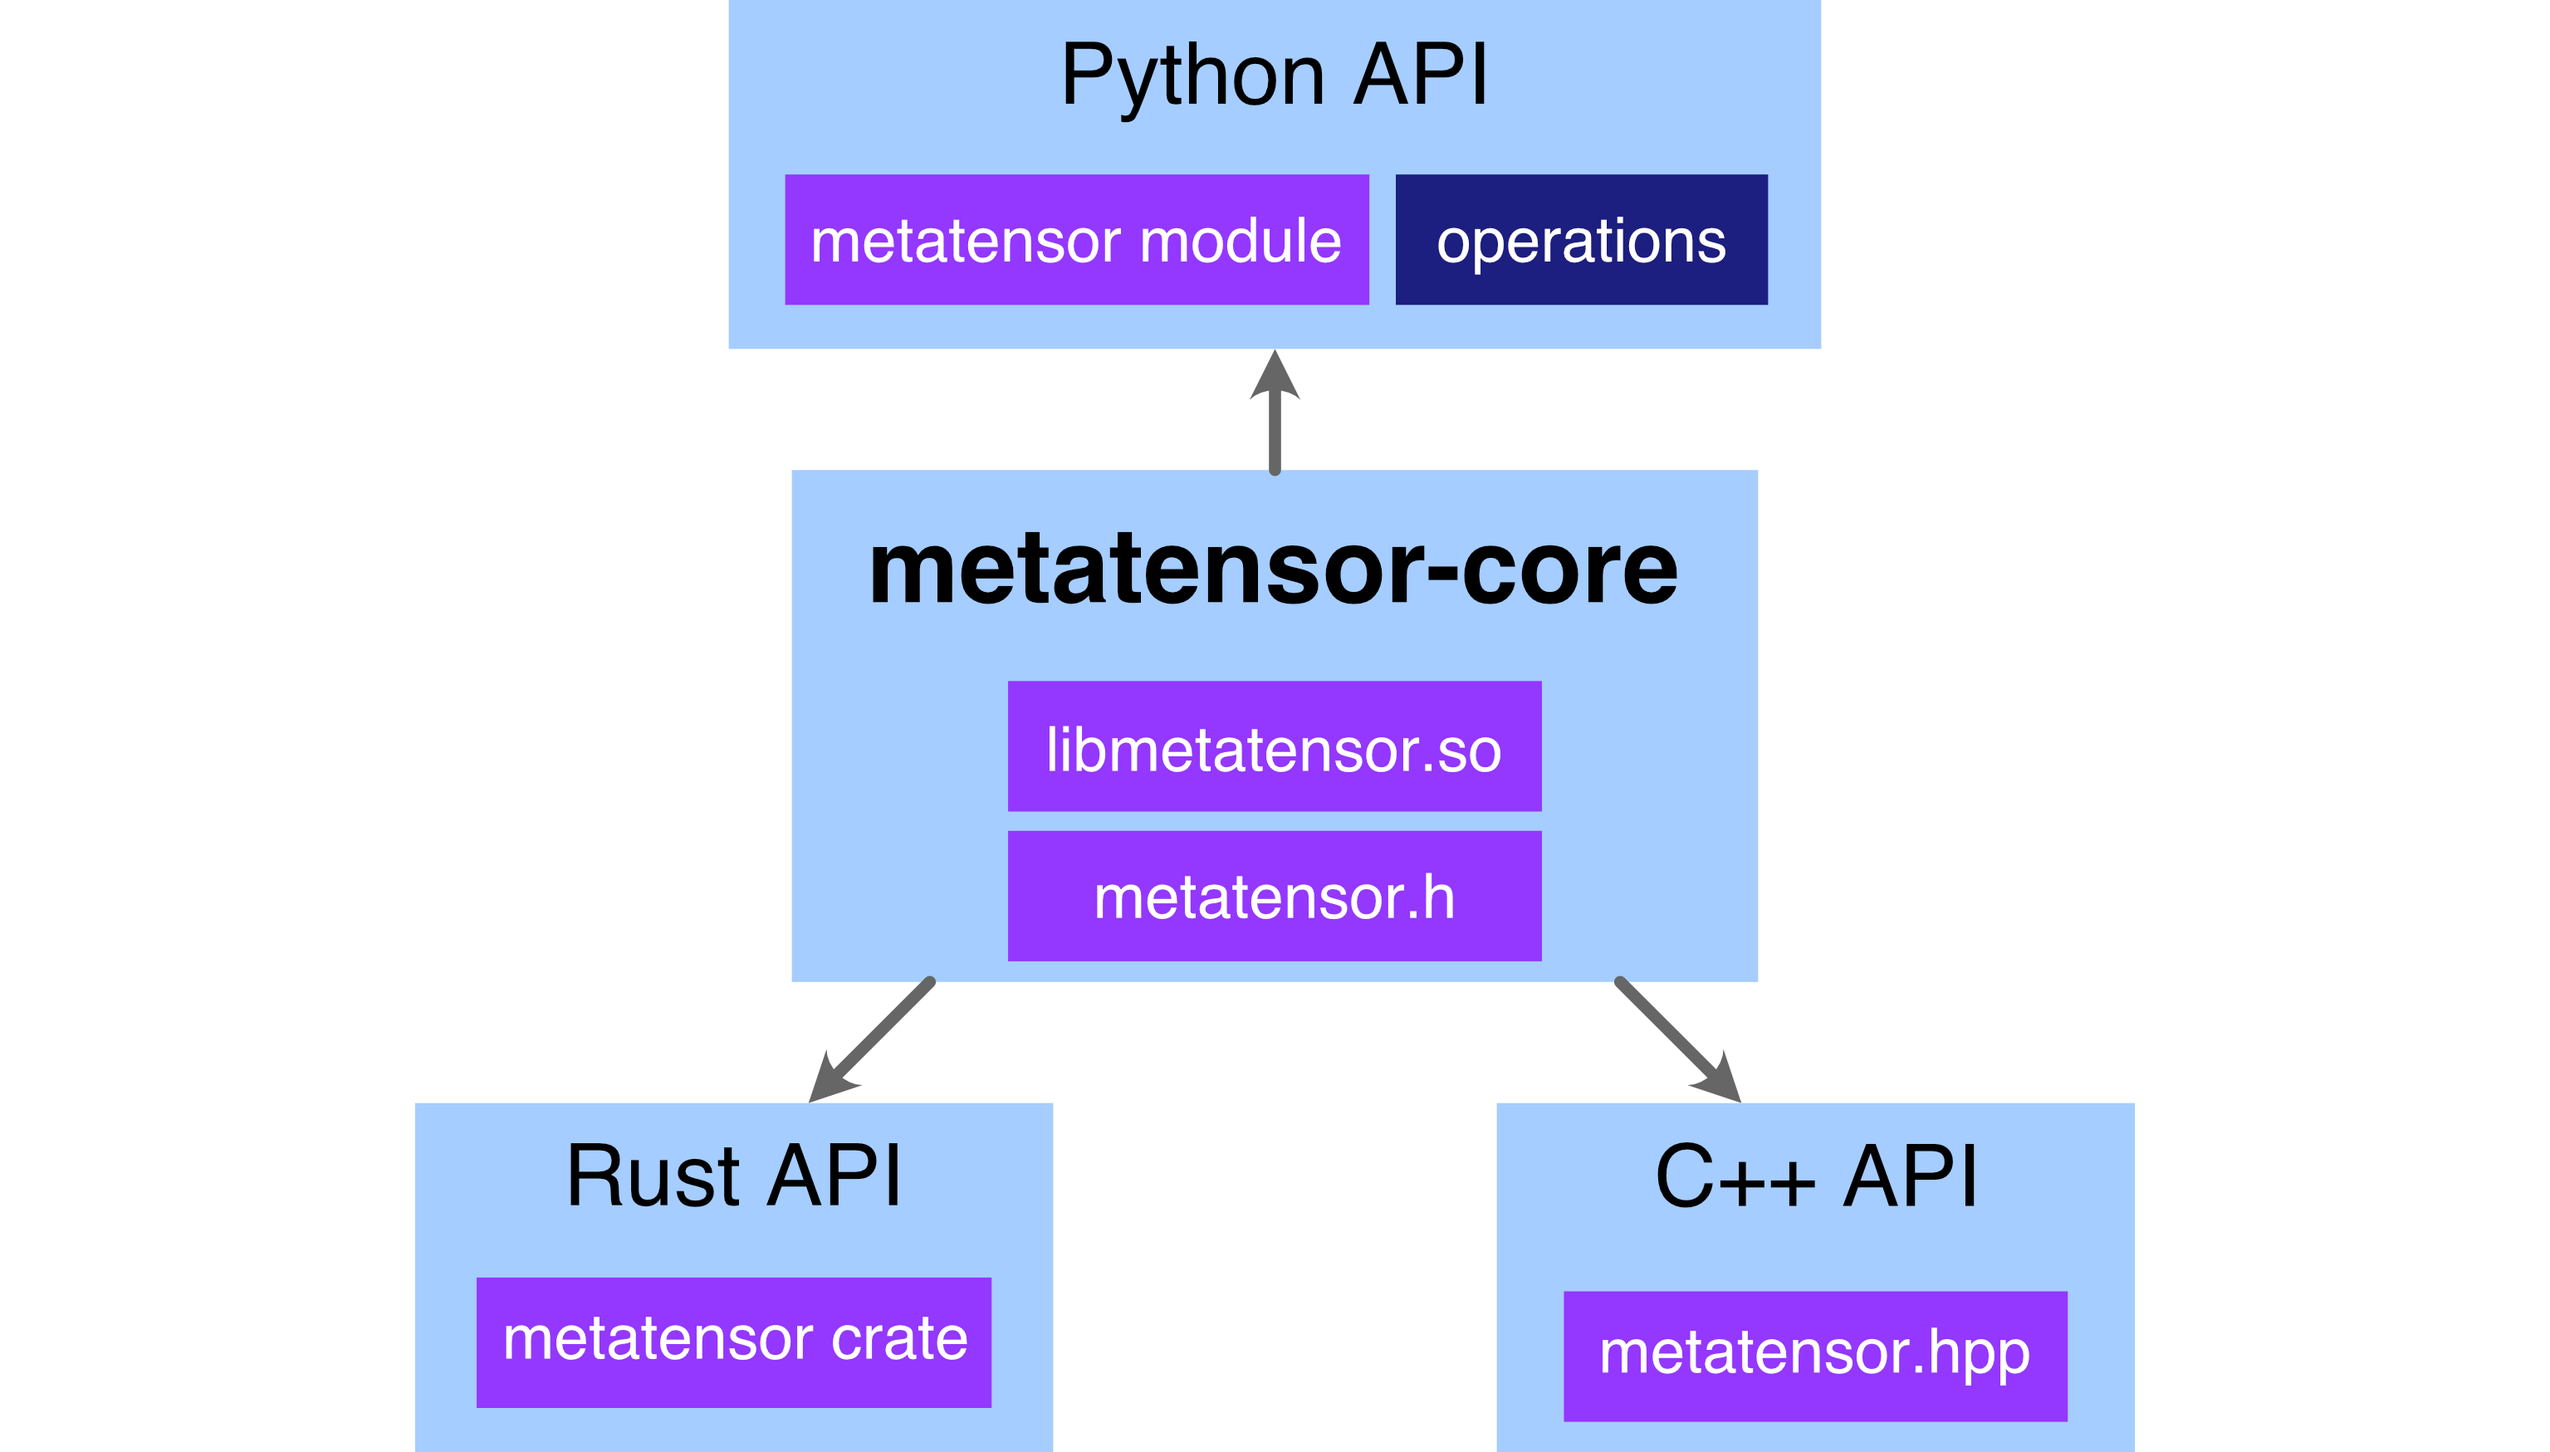
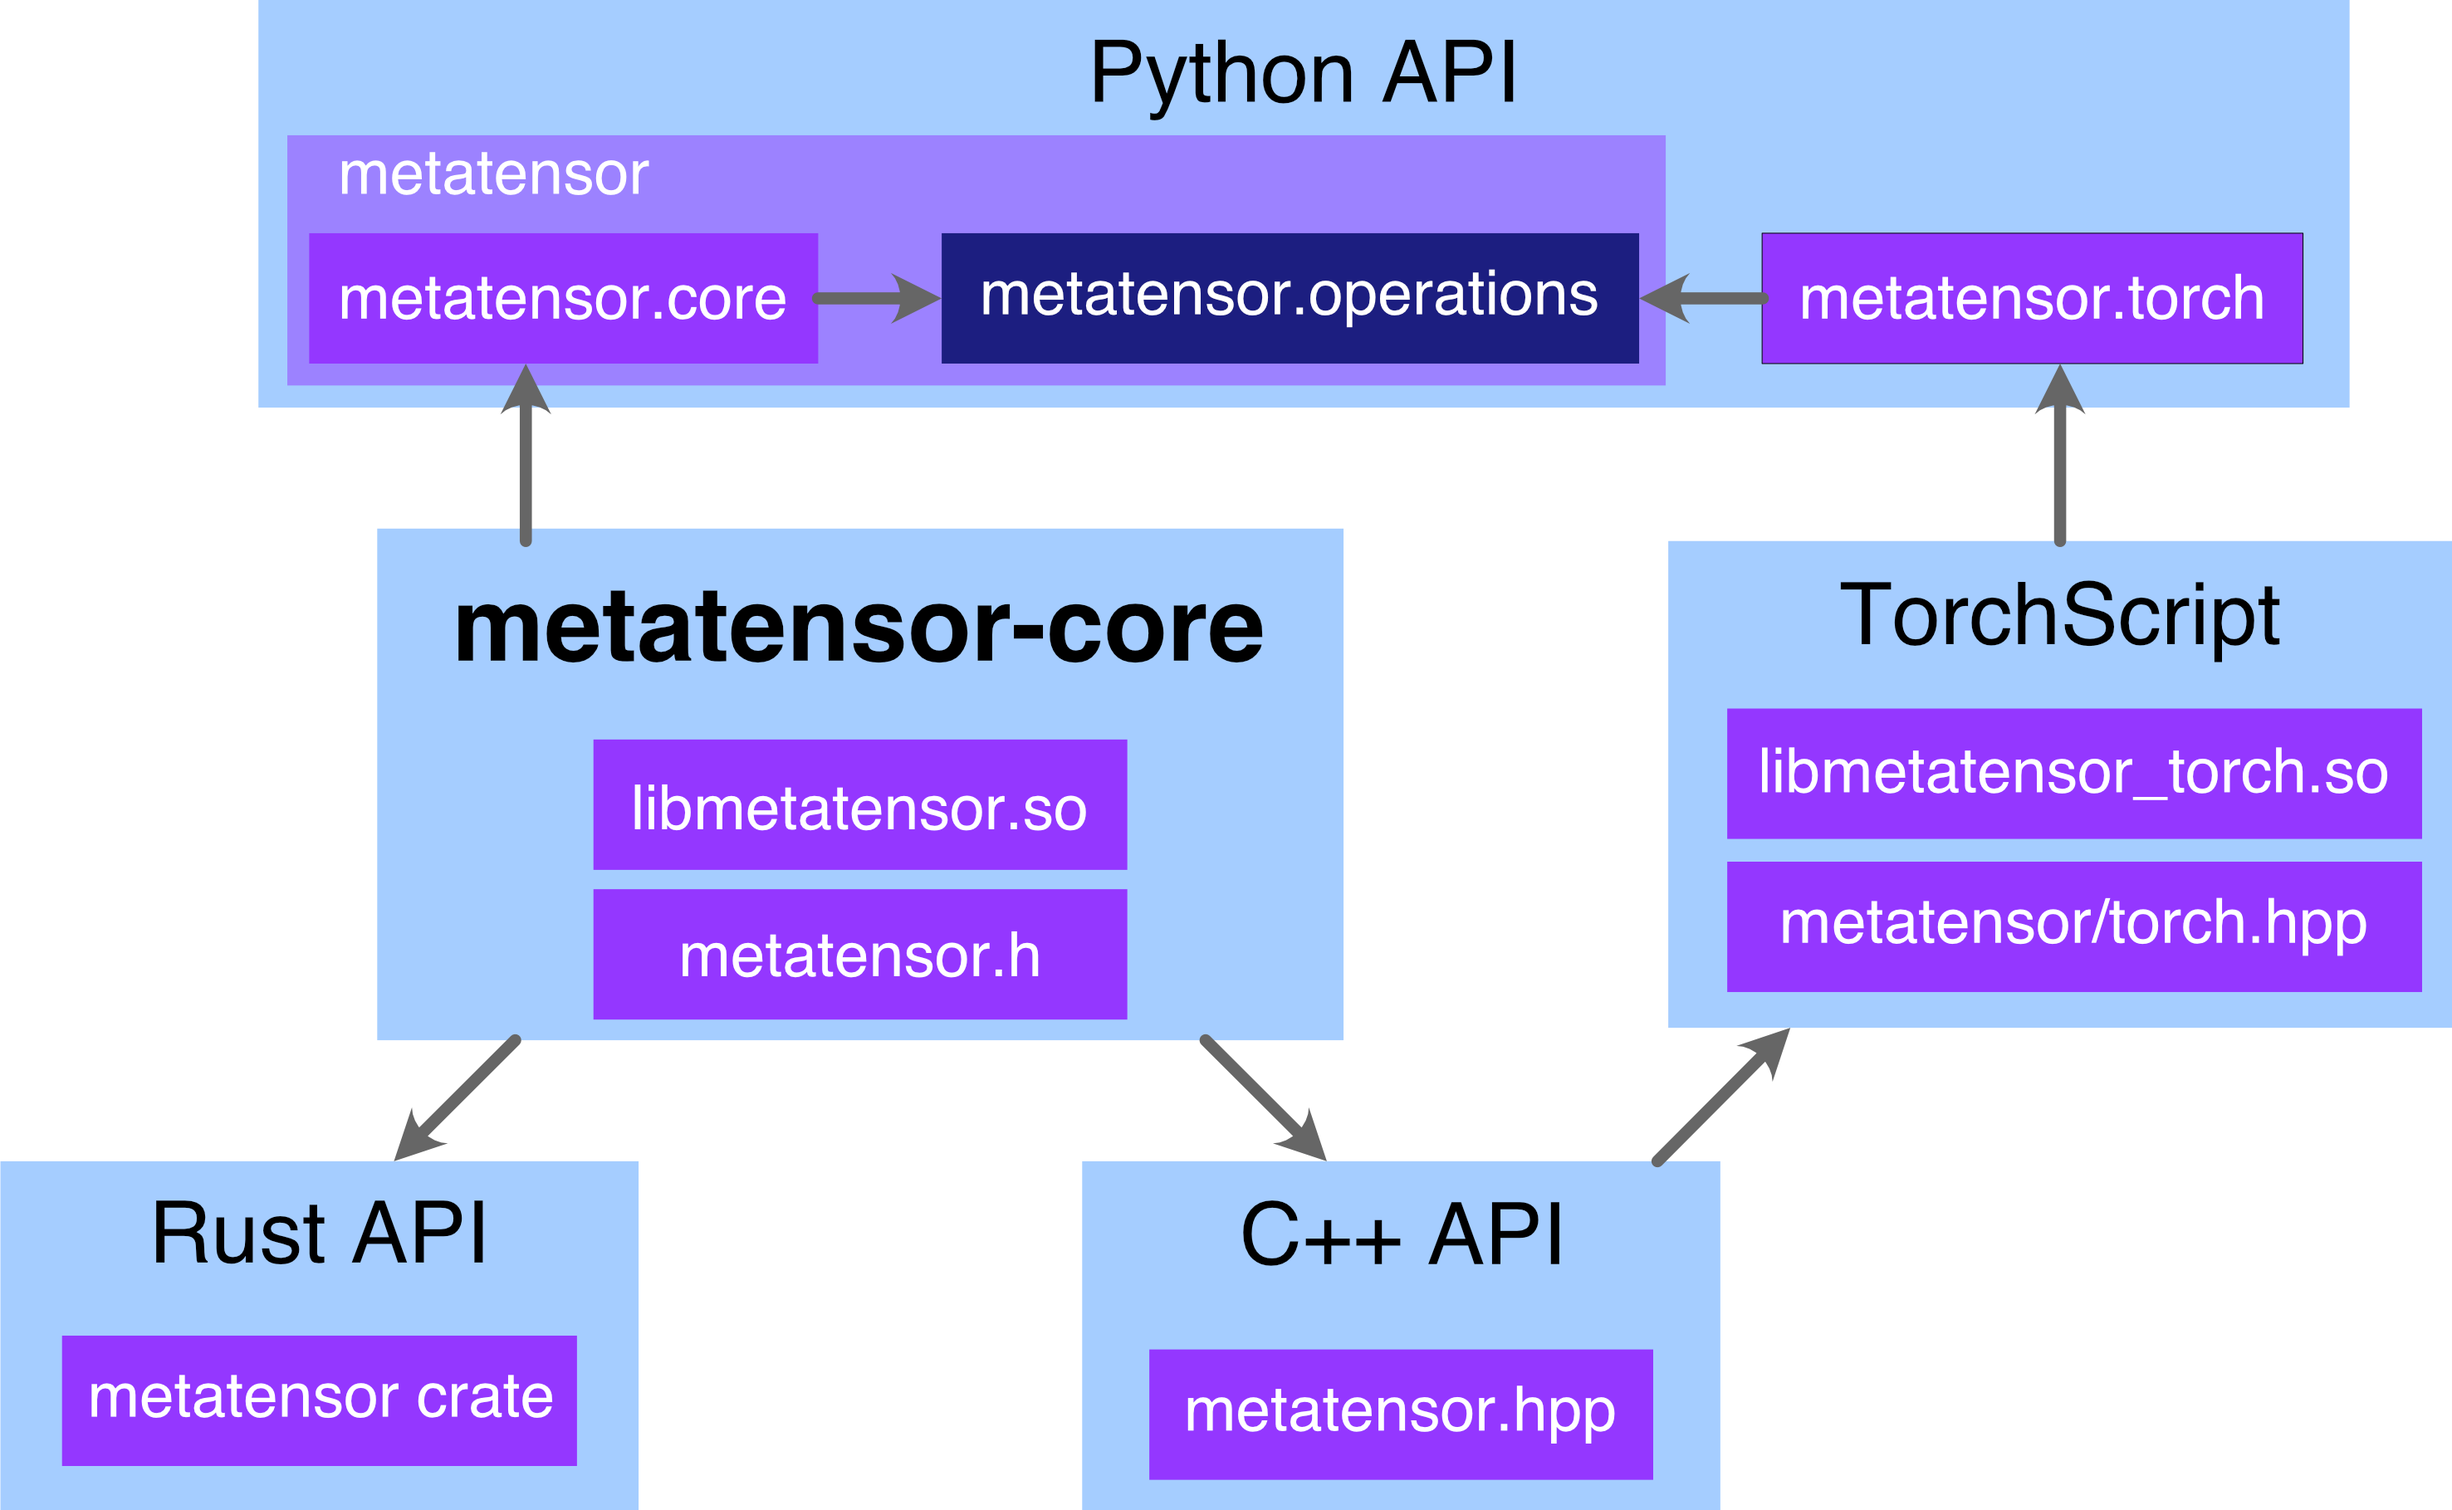
Update code organization docs

diff --git a/docs/src/devdoc/architecture.rst b/docs/src/devdoc/architecture.rst
@@ -5,18 +5,24 @@ Code organization
 
 The code is organized in multiple modules, each in a separate directory:
 
-- ``metatensor-core/`` contains the core library, implemented in Rust and exposed
-  to the outside world through a C API. This is also where the C++ API lives,
-  implemented as a header-only library in ``metatensor.hpp``.
+- ``metatensor-core/`` contains the core library, implemented in Rust and
+  exposed to the outside world through a C API. This is also where the C++ API
+  lives, implemented as a header-only library in ``metatensor.hpp``.
+- ``metatensor-torch/`` contains a `TorchScript`_ extension, written in C++,
+  using the C++ API of metatensor; as well as the corresponding tests and
+  examples.
 - ``metatensor/`` contains the Rust interface to metatensor, using the C API
-  defined in ``metatensor-core``, as well as the corresponding tests and examples
-- ``python/metatensor-core`` contains the Python interface to the core metatensor
-  types, and the corresponding tests;
+  defined in ``metatensor-core``, as well as the corresponding tests and
+  examples.
+- ``python/metatensor-core`` contains the Python interface to the core
+  metatensor types, and the corresponding tests;
 - ``python/metatensor-operations`` contains a set of pure Python functions to
   manipulate data in metatensor format, and the corresponding tests;
+- ``python/metatensor-torch`` contains the Python interface for the TorchScript
+  version of metatensor, and the corresponding tests;
 - ``python/metatensor`` contains a small Python package re-exporting everything
-  from ``metatensor-core`` and ``metatensor-operations``. This is the main package
-  users should interact with.
+  from ``metatensor-core`` and ``metatensor-operations``. This is the main
+  package users should interact with.
 
 Finally, ``docs/`` contains the documentation for everything related to
 metatensor.
@@ -24,7 +30,7 @@ metatensor.
 ------------------------
 
 .. figure:: ../../static/images/API-organization.*
-    :width: 600px
+    :width: 650px
     :align: center
 
     Logical organization of the modules in the metatensor repository. Blue boxes
@@ -36,7 +42,7 @@ metatensor.
 ``metatensor-core``
 ^^^^^^^^^^^^^^^^^^^
 
-This sub-project is supposed to be built by `cmake`_. When building it,
+This sub-project should be built by `cmake`_. When building it, a shared library
 ``libmetatensor.so`` (``libmetatensor.dylib`` on macOS/``metatensor.dll`` on
 Windows) and ``metatensor.h`` will be produced for consumption by other
 modules/the end users.
@@ -48,6 +54,15 @@ automatically be translated to the corresponding C function declaration.
 The C++ API in ``metatensor.hpp`` is manually written as a header-only library,
 exposing the functions from ``metatensor.h`` with a cleaner C++11 interface.
 
+``metatensor-torch``
+^^^^^^^^^^^^^^^^^^^^
+
+This sub-project is a typical C++ project, built by `cmake`_. It contains the
+`TorchScript`_ version of all metatensor core types, built using the C++ API.
+This sub-project depends on both the C++ API of metatensor-core; and
+``libtorch`` (the C++ part of PyTorch). All the code in this sub-project is
+manually written.
+
 ``metatensor`` rust crate
 ^^^^^^^^^^^^^^^^^^^^^^^^^
 
@@ -57,29 +72,76 @@ interface built on top of the C API. This is a separate module from
 there can be a single authoritative version of the metatensor C API.
 
 When publishing to `crates.io`_, metatensor-core is included as a tarball of the
-``metatensor-core/`` folder (using the ``.crate`` file created by cargo package).
-This file should be generated before publishing using
-``./metatensor/scripts/update-core.sh``. This script also update the Rust
-declarations corresponding to the C API (``./metatensor/src/c_api.rs``) using
-`bindgen`_.
+``metatensor-core/`` folder (using the ``.crate`` file created by cargo
+package). This file should be generated before publishing using
+``./scripts/package-core.sh``. The Rust declarations corresponding to the C API
+(``./metatensor/src/c_api.rs``) are also automatically generated using using
+`bindgen`_, and should be updated with ``./scripts/update-declarations.sh``.
 
-``metatensor`` Python package
-^^^^^^^^^^^^^^^^^^^^^^^^^^^^^
+Python packages
+^^^^^^^^^^^^^^^
 
-This is built by setuptools/pip, like a normal Python project, and re-export a
-native Python interface built on top of the C API. The C API is accessed using
-the standard Python `ctypes`_ module. The functions declaration live in
-``python/src/metatensor/_c_api.py``, and are generated from the functions in
-``metatensor.h`` by the script ``./python/scripts/generate-declarations.py``.
+The Python API for metatensor is split into different `distributions`_, which
+when installed will correspond to different sub-module of ``metatensor``:
 
-In addition to the core types of metatensor, the Python package also contains a
-set of :ref:`operations <python-api-operations>` acting on :py:class:`TensorMap`
-and providing building blocks for machine learning models on top of the core
-metatensor data structures.
+- the ``metatensor`` distribution installs a small module, re-exporting code
+  from ``metatensor.core`` and ``metatensor.operations``;
+- the ``metatensor-core`` distribution contains the ``metatensor.core`` module;
+- the ``metatensor-operations`` distribution contains the
+  ``metatensor.operations`` module; which depends on ``metatensor-core``;
+- the ``metatensor-torch`` distribution contains the ``metatensor.torch``
+  module;
 
+All the Python sub-projects are built by setuptools, and fully compatible with
+pip and other standard Python tools.
+
+``metatensor-core``
+-------------------
+
+This Python module re-export a native Python interface built on top of the C
+API. The C API is accessed using the standard Python `ctypes`_ module. The
+functions declaration in ``python/metatensor-core/metatensor/core/_c_api.py``
+are generated from the ``metatensor.h`` header when running
+``./scripts/update-declarations.sh``.
+
+``metatensor-operations``
+-------------------------
+
+This Python package contains the code for the :ref:`operations
+<python-api-operations>` acting on :py:class:`TensorMap`, and provides building
+blocks for machine learning models on top of the metatensor data structures.
+
+By default, the operations uses the types from ``metatensor-core``, and can act
+on either numpy or torch data. The code in ``_dispatch.py`` is here to use the
+right function depending on the type of arrays stored by metatensor.
+
+At the same time, this code is also used from ``metatensor-torch``, using the
+metatensor types exposed in this module and operating only on torch data. This
+is achieved by re-importing the code from ``metatensor-operations`` in a new
+module ``metatensor.torch.operations``. See the comments in
+``python/metatensor-torch/metatensor/torch/operations.py`` for more information.
+
+``metatensor-torch``
+--------------------
+
+This Python package exposes to Python the types defined in the C++
+``metatensor-torch`` sub-project. It should be used to define models that are
+then exported using TorchScript and run without a Python interpreter.
+
+As mentioned above, this package also re-export the code from
+``metatensor-operations`` in a way compatible with TorchScript.
+
+
+``metatensor``
+--------------
+
+This is a small wrapper package for user convenience, re-exporting all types
+from ``metatensor-core`` and all functions from ``metatensor-operations``.
 
 .. _cmake: https://cmake.org/
 .. _cbindgen: https://github.com/eqrion/cbindgen/blob/master/docs.md
 .. _crates.io: https://crates.io/
 .. _bindgen: https://rust-lang.github.io/rust-bindgen/
 .. _ctypes: https://docs.python.org/3/library/ctypes.html
+.. _distributions: https://packaging.python.org/en/latest/glossary/#term-Distribution-Package
+.. _TorchScript: https://pytorch.org/docs/stable/jit.html
